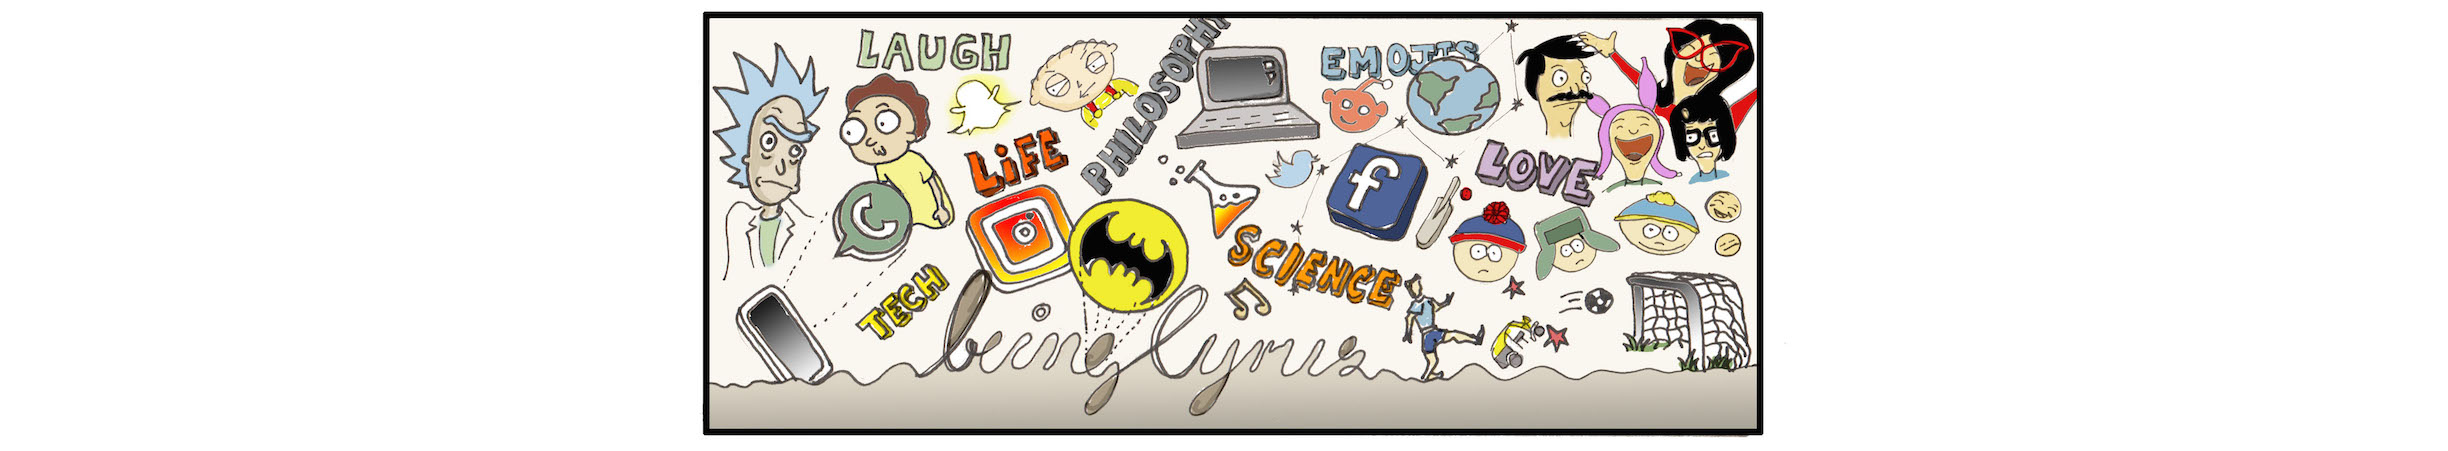
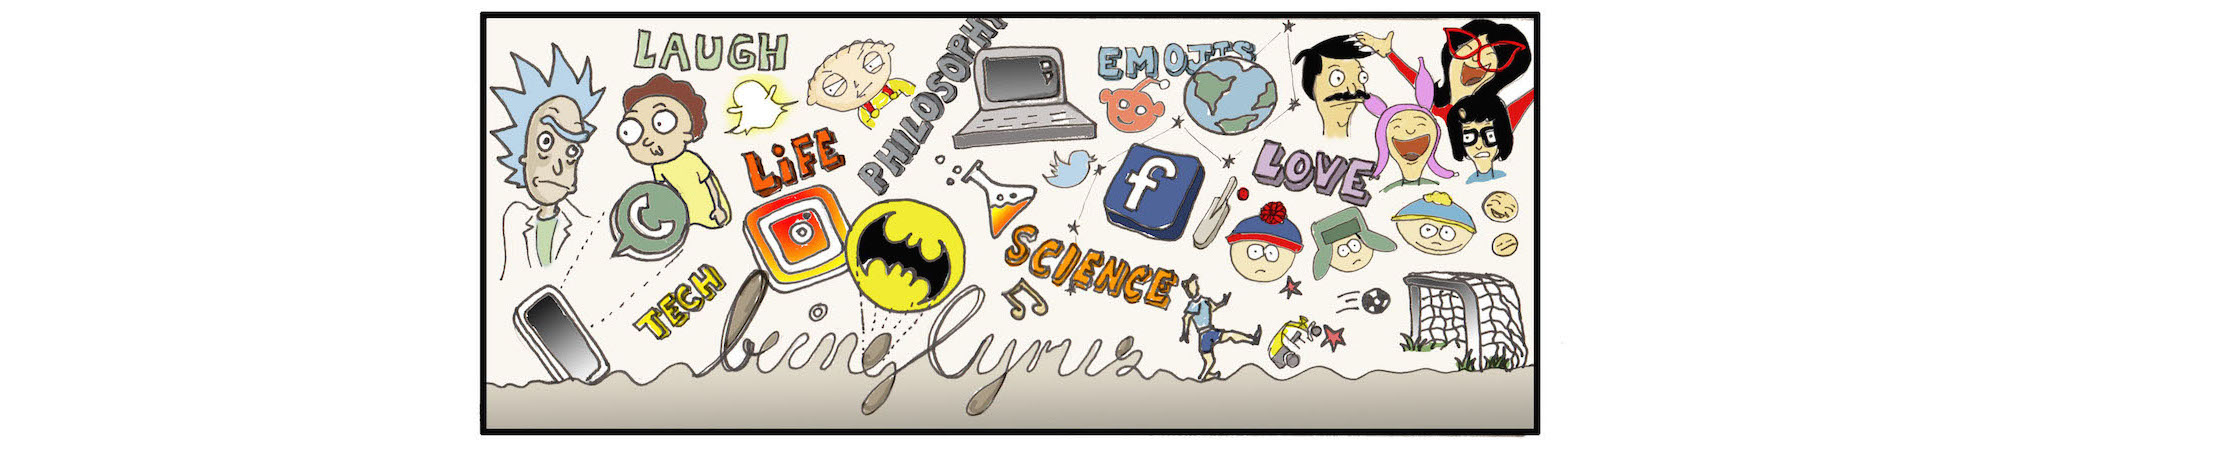
More fix css

Changed region(s): [[0.2171, 0.0, 0.7443, 0.9933]]

diff --git a/_sass/_layout.scss b/_sass/_layout.scss
@@ -10,9 +10,9 @@
 
 // Styling for mobile devices
 @media screen and (max-width: 768px) {
-  .wrap {
-    margin-bottom: -211px; 
-  }
+//  .wrap {
+//    margin-bottom: -211px;
+//  }
 }
 
 .wrap:after {
@@ -86,7 +86,6 @@
   z-index:9999;
   background-color:rgba(0,0,0,0.90);
 }
-*/
 
 // Styling for mobile devices
 @media screen and (max-width: 768px) {
@@ -112,6 +111,7 @@
     margin-bottom: 2em;
   }
 }
+*/
 
 // Asides
 .updates {

diff --git a/_layouts/post.html b/_layouts/post.html
@@ -7,7 +7,7 @@ layout: default
   {% if page.sidebar == "true" %}
     <article class="columns small-12 large-9 comic-page">
   {% else %}
-    <article class="columns small-12 large-offset-1 large-10 comic-page">
+    <article class="columns small-12 large-10 comic-page">
   {% endif %}
       <nav class="comic-nav">
 	{% if site.posts.last.url == page.url %}

diff --git a/index.html b/index.html
@@ -9,7 +9,7 @@ sidebar: true
   {% if page.sidebar == "true" %}
     <article class="columns small-12 large-9 comic-page">
   {% else %}
-    <article class="columns small-12 large-offset-1 large-10 comic-page">
+    <article class="columns small-12 large-10 comic-page">
   {% endif %}
       <nav class="comic-nav">
 	<nav class="previous-comic">
